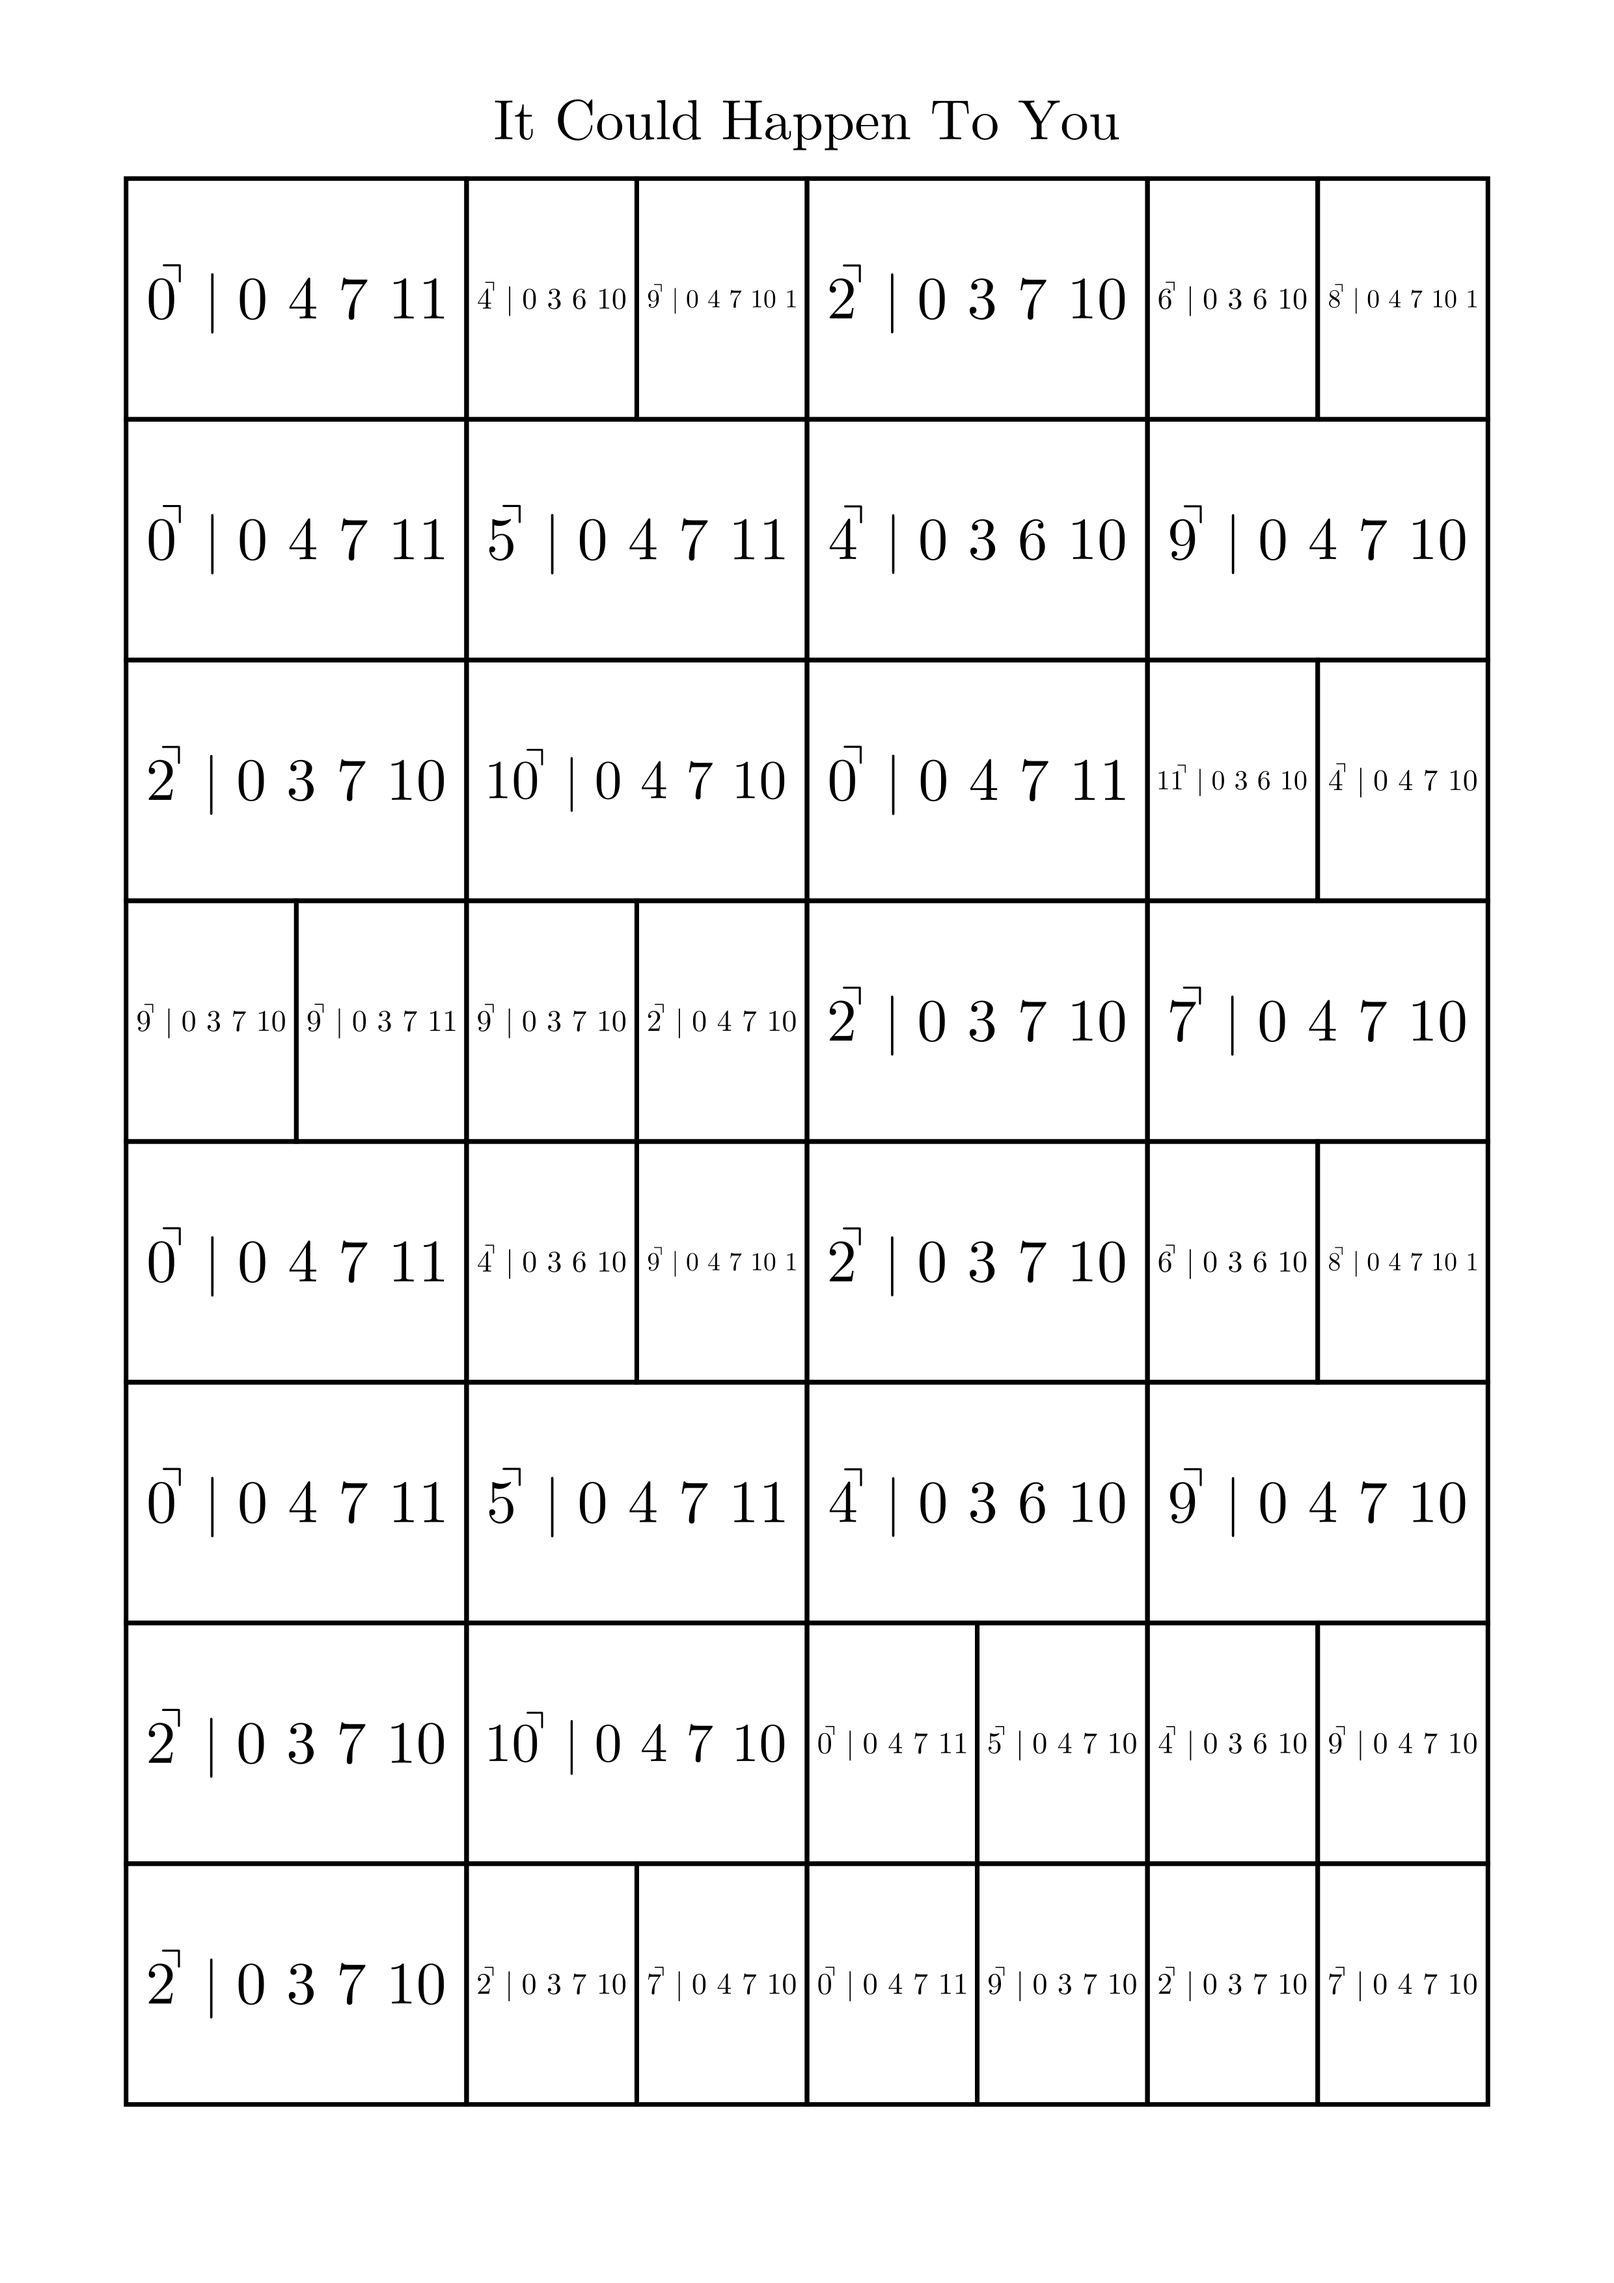
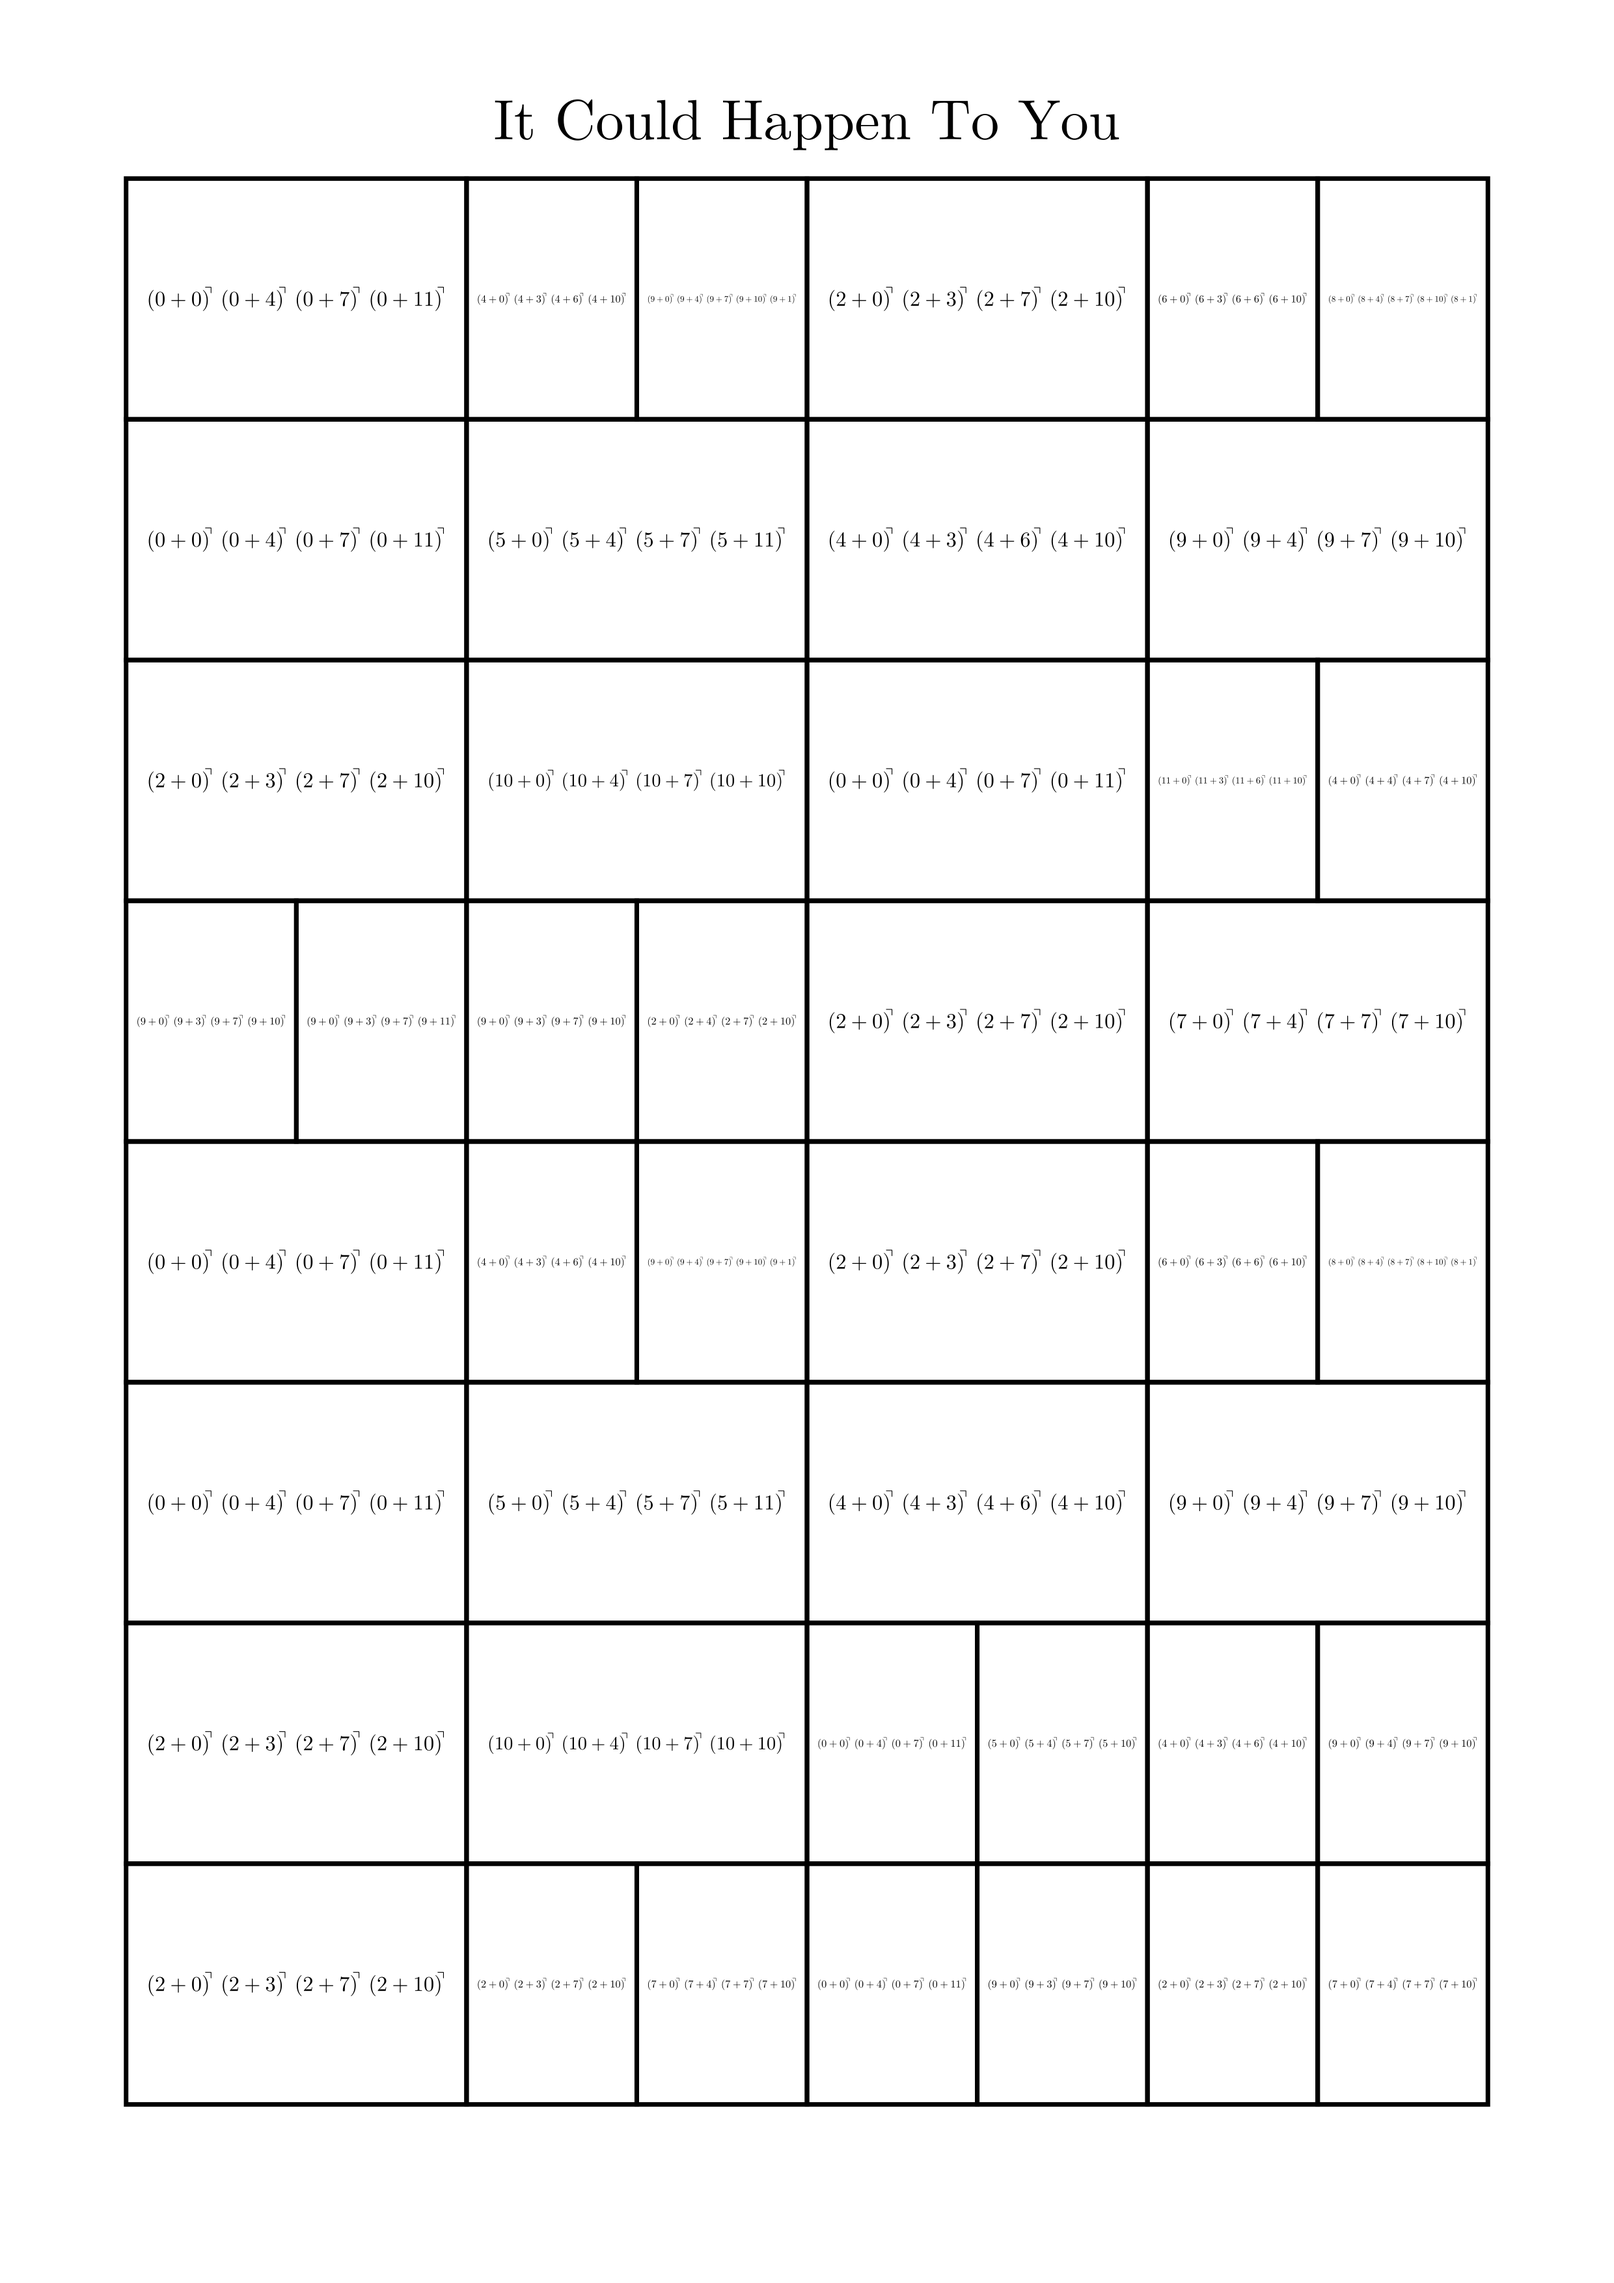
create lead sheet

diff --git a/lead_sheet_creator.py b/lead_sheet_creator.py
@@ -148,6 +148,6 @@ class TableAnimation(Scene):
         chord_table, key_interval_table = tables[0], tables[1]
 
 
-        draw_table(chord_table, "It Could Happen To You", BLACK)
+        draw_table(key_interval_table, "It Could Happen To You", BLACK)
 
 
